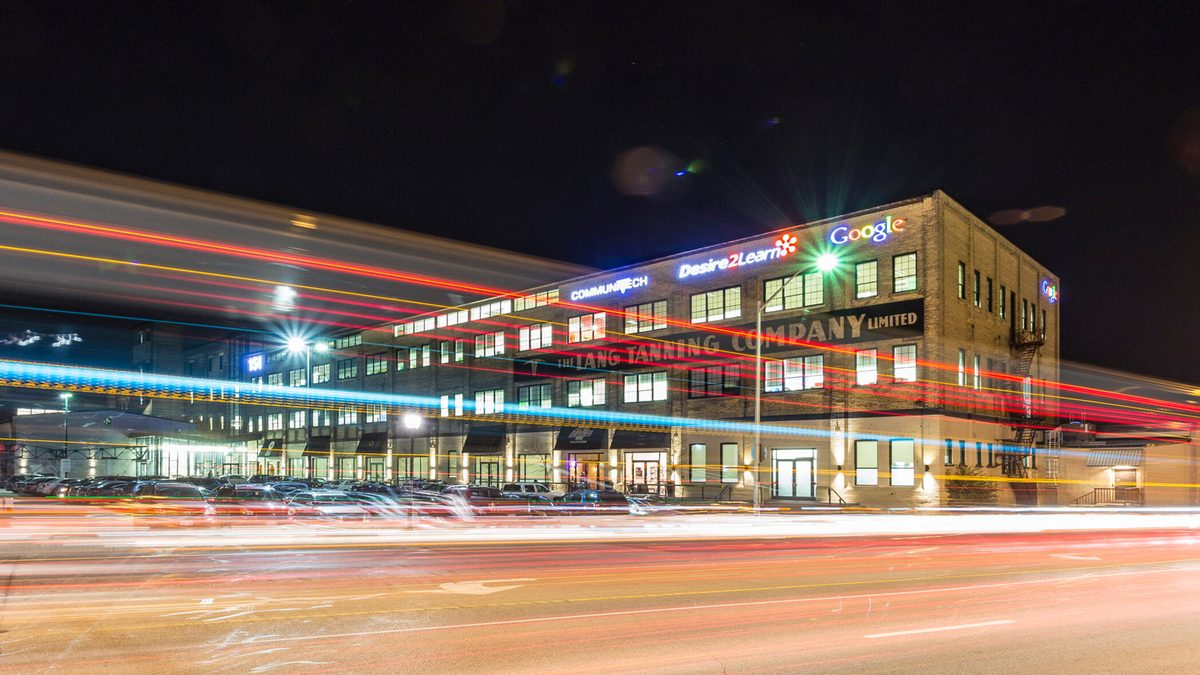
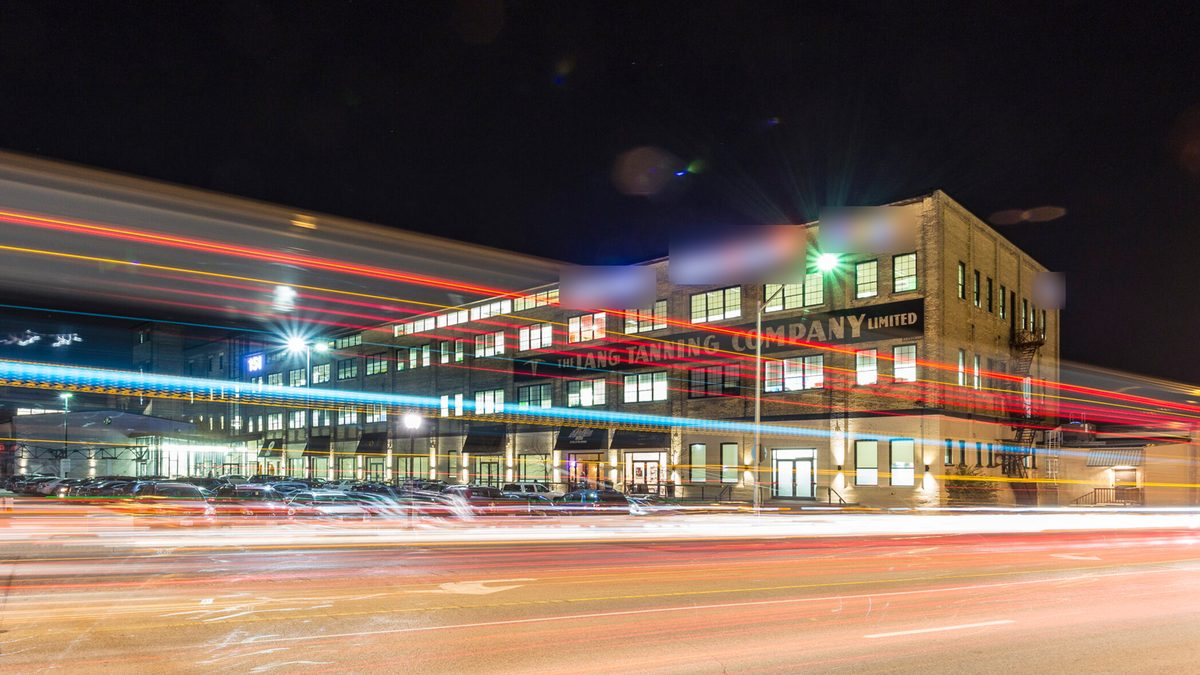
Blur the company signs in the AI Strategy photo
Claude-Session: https://claude.ai/code/session_01XRxcuneHQbuZosuNmJ8izH

Changed region(s): [[0.4625, 0.28, 0.7708, 0.4667], [0.8633, 0.4044, 0.8942, 0.4667]]

diff --git a/images/places/SOURCES.md b/images/places/SOURCES.md
@@ -17,7 +17,7 @@ Credits are shown on each photo and on photo-credits.html. Attributions supplied
 | canso-harbour-* | Canso, NS | Supplied by Bruce 2026-10-19 (client photos) as "Canso11.jpg" (1600 x 1200, taken 2007) | Source and licence to confirm |
 | iroquois-falls-lumberjack-* | Iroquois Falls, ON | Supplied by Bruce 2026-10-19 (client photos) as "2024-09-12-lumberjack-statue-iroquois-falls.jpg" (1136 x 938) | Source and licence to confirm |
 | lake-marina-aerial-* | North Bay, ON (marina aerial) | Supplied by Bruce 2026-11-22 as "marina-aerial.png" (2500 x 1875); no metadata; photographer not recorded | Permission pending (Bruce obtaining) |
-| tech-hub-night-* | Kitchener, ON (converted tannery building with Communitech, Desire2Learn and Google signs) | Supplied by Bruce 2026-11-23 as "ai-strategy-photo.png" (1920 x 1080); no metadata; source not recorded | Source and licence to confirm; shows third-party logos |
+| tech-hub-night-* | Kitchener, ON (converted tannery building with Communitech, Desire2Learn and Google signs) | Supplied by Bruce 2026-11-23 as "ai-strategy-photo.png" (1920 x 1080); no metadata; source not recorded | Source and licence to confirm; Google, Desire2Learn and Communitech signs blurred 2026-11-23 at Bruce's request |
 | beamsville-bench-vineyard-* | Beamsville Bench, ON | Supplied by Bruce as "Hidden-Bench-Winery-3.jpeg" (2400 x 1600); file metadata: copyright Steven Elphick 2022 | Need permission (Bruce asking Hidden Bench) |
 | vineyard-rows-sunset-* | Vineyard rows at sunset (location unknown; may not be Ontario) | Supplied by Bruce 2026-11-22 as "vineyard-sunset.png" (2000 x 1333); Bruce pointed to a Blythwood Homes blog post (blythwoodhomes.ca, "Famous Vineyards and More", 2020) whose header photo carries no credit; original photographer unknown; no metadata in the file | Permission pending, Bruce obtaining |
 
